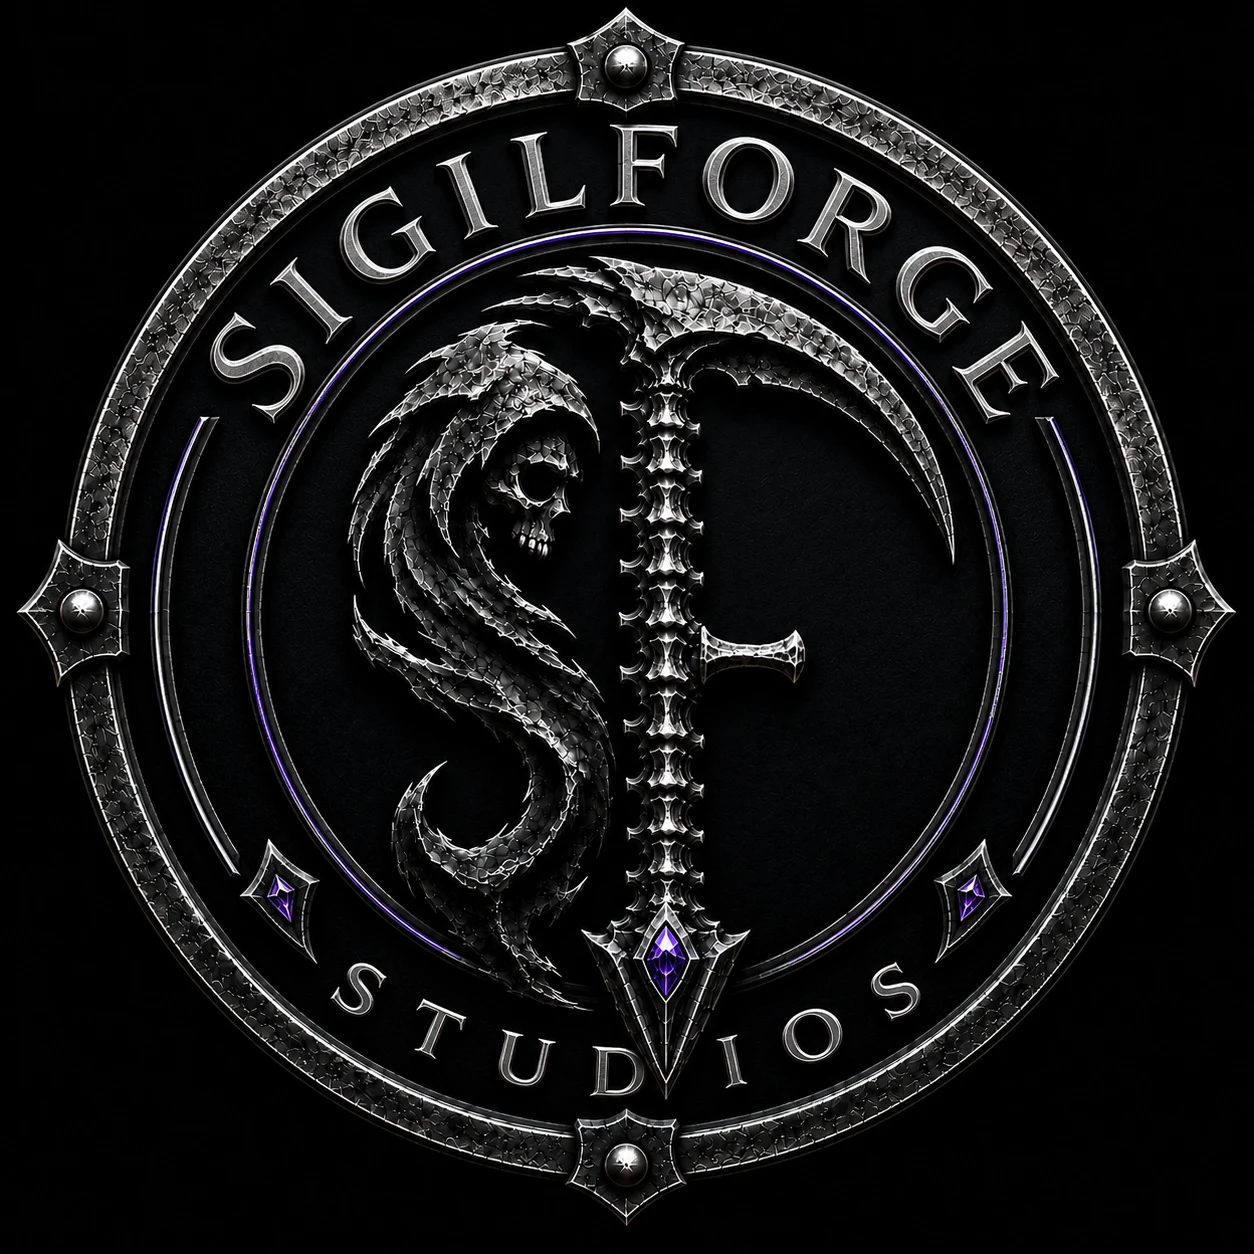
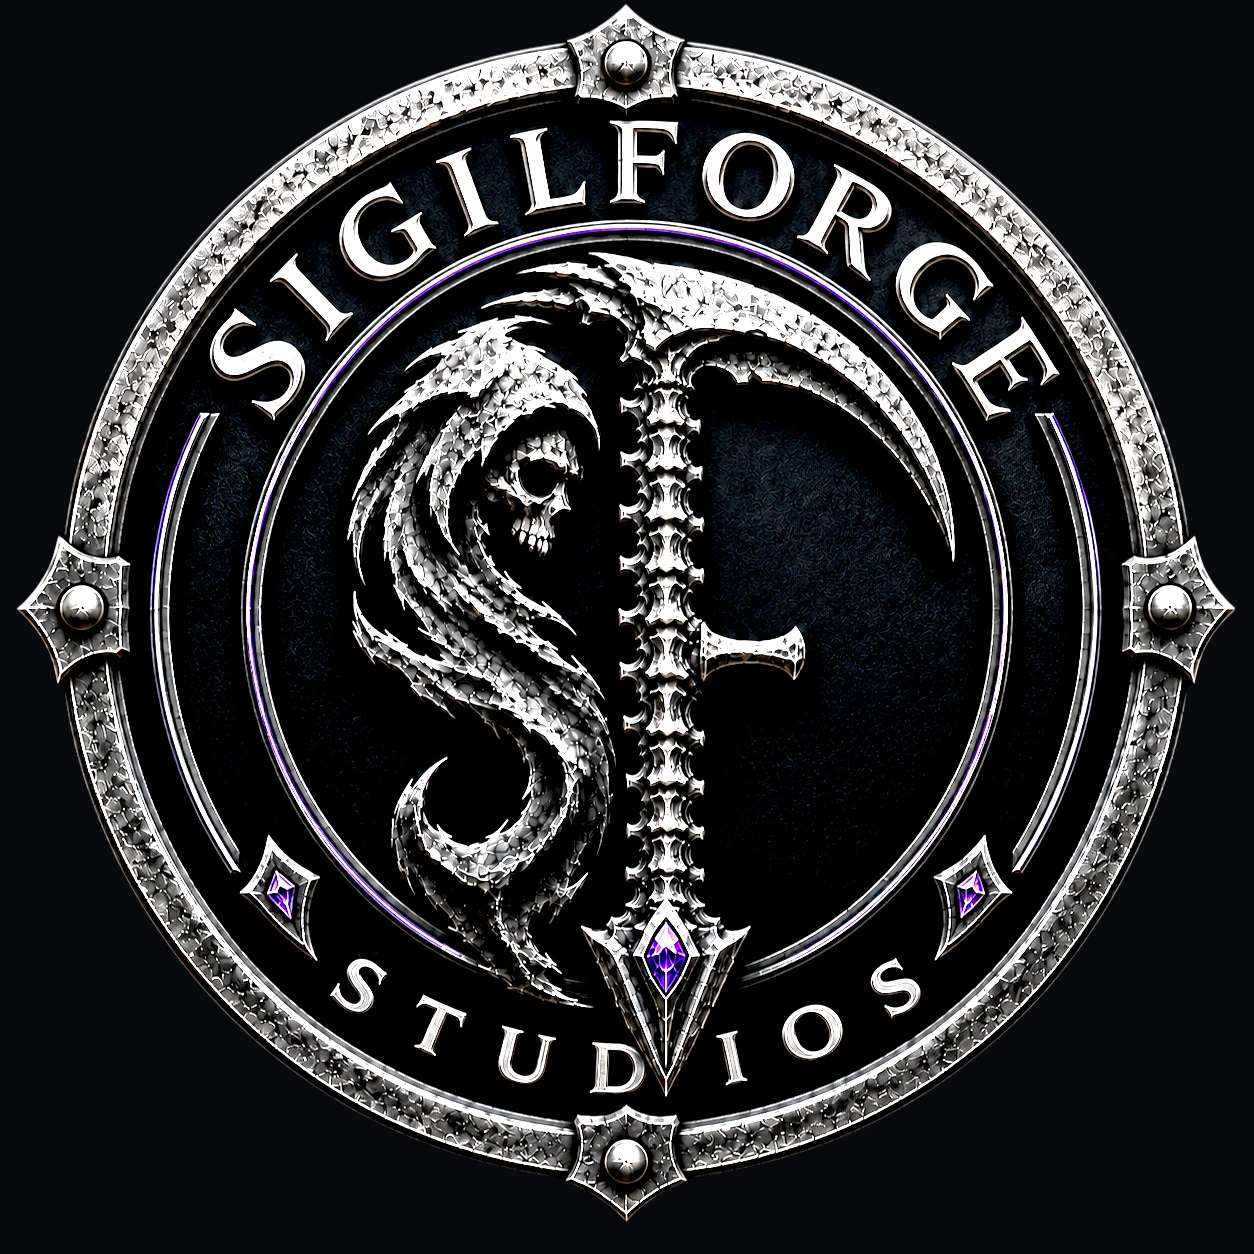
Fix contrast curve on master marketing art assets for Rights Record and Branded Round Seal

Changed region(s): [[0.0, 0.0, 0.9952, 0.9641]]

diff --git a/studio/index.html b/studio/index.html
@@ -130,7 +130,7 @@
   <section class="pathways" id="pathways"><header><p class="eyebrow">Choose a doorway</p><h2>Pick the reason you are here.</h2><a href="/studio/projects/">View all projects →</a></header>
     <div class="pathway-grid">
       <a class="pathway shelf-path" href="/studio/shelf/"><img src="/studio/assets/site-cards/studio-door-narrative.webp?v=20260712-srcfix1" alt="CradlePoint published shelf artwork" width="1200" height="675" loading="eager"><span>Published shelf</span><h3>Start with the flagship.</h3><p>Book One is live. Tabletop releases, dossiers, and future Studio editions open from the same shelf.</p><b>Open the Shelf →</b></a>
-      <a class="pathway rights-path" href="/studio/creator-rights/"><img src="/assets/social/creator-rights-record-og.webp?v=20260728-rights-card7" alt="Creator Rights Record verification card" width="1200" height="675" loading="eager"><span>Creator rights</span><h3>Register a product.</h3><p>Publish a permanent rights record with AI-use terms, licensing posture, QR links, and machine-readable metadata.</p><b>Open Creator Rights →</b></a>
+      <a class="pathway rights-path" href="/studio/creator-rights/"><img src="/assets/social/creator-rights-record-og.webp?v=20260728-rights-card9" alt="Creator Rights Record verification card" width="1200" height="675" loading="eager"><span>Creator rights</span><h3>Register a product.</h3><p>Publish a permanent rights record with AI-use terms, licensing posture, QR links, and machine-readable metadata.</p><b>Open Creator Rights →</b></a>
       <a class="pathway web-path" href="/studio/web-design/"><img src="/studio/assets/social/web-design-dev-workspace.webp?v=20260723-web1" alt="Small-business website design workspace" width="1200" height="630" loading="lazy"><span>Client services</span><h3>Build a sharper site.</h3><p>Focused small-business web design for clear, mobile-first public surfaces with launch support.</p><b>Explore web design →</b></a>
       <a class="pathway funding-path" href="/studio/funding/"><img src="/studio/assets/site-cards/studio-door-funding.webp?v=20260712-srcfix1" alt="Funding strategy concept art" width="1200" height="806" loading="lazy"><span>Funding + partners</span><h3>Review the next layer.</h3><p>Funding, publishing, technology, and partnership evidence for serious conversations.</p><b>Open the Funding Case →</b></a>
     </div>

diff --git a/studio/press/index.html b/studio/press/index.html
@@ -170,7 +170,7 @@ As a solo founder he has already produced IP, multi-book rules systems, shipping
           </div>
         </article>
         <article class="asset-card">
-          <div class="preview seal-preview light-preview"><img src="/studio/assets/brand/sigilforge-branded-round-badge-nobg.webp?v=20260728-press-seal8" alt="SigilForge Studios official branded round seal badge" width="1254" height="1254" loading="lazy"></div>
+          <div class="preview seal-preview"><img src="/studio/assets/brand/sigilforge-branded-round-badge-nobg.webp?v=20260728-press-seal9" alt="SigilForge Studios official branded round seal badge" width="1254" height="1254" loading="lazy"></div>
           <div class="meta">
             <h3>Official Branded Round Seal</h3>
             <p>Circular seal emblem featuring full studio wordmark typography and central scythe shield iconography.</p>
